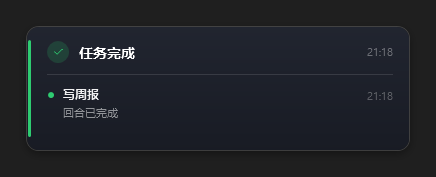
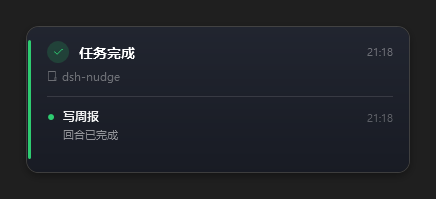
feat: 卡片显示项目与会话标题，多项目时逐条挂项目标签

diff --git a/lib/index.js b/lib/index.js
@@ -233,13 +233,20 @@ export class PopupRunner {
 		const top = ordered[0].kind;
 		const limit = Math.max(1, Math.round(this.config.maxItems));
 		const overflow = Math.max(0, ordered.length - limit);
+		// 卡片要能直接看出是哪个项目/哪次会话：只有一个项目时放在抬头下面一行，
+		// 出现多个项目时逐条挂在各自标题前面。
+		const projects = [
+			...new Set(ordered.map((item) => item.project).filter((value) => typeof value === 'string' && value !== ''))
+		];
+		const multiProject = projects.length > 1;
 		const payload = {
 			kind: top,
 			label: KIND_META[top].label,
 			accent: KIND_META[top].accent,
 			glyph: KIND_META[top].glyph,
 			count: ordered.reduce((acc, item) => acc + Math.max(1, item.count), 0),
-			items: ordered.slice(0, limit),
+			items: ordered.slice(0, limit).map((item) => ({ ...item, rowProject: multiProject ? item.project ?? '' : '' })),
+			context: projects.length === 1 ? projects[0] : '',
 			overflow,
 			// 卡片上的说明文字由这里给出：popup.ps1 保持纯 ASCII 脚本。
 			more: overflow > 0 ? `还有 ${overflow} 条未展开` : "",
@@ -363,7 +370,7 @@ export class AlertCenter {
 	/**
 	 * 记录一条提醒。
 	 * @param {'completed'|'needs_choice'|'failed'} kind 类型
-	 * @param {{sessionId?: string, title?: string, detail?: string}} [detail] 内容
+	 * @param {{sessionId?: string, title?: string, detail?: string, project?: string}} [detail] 内容
 	 * @returns {boolean} 是否被接受
 	 */
 	push(kind, detail = {}) {
@@ -378,11 +385,13 @@ export class AlertCenter {
 			existing.count += 1;
 			existing.at = this.time();
 			existing.detail = detail.detail ?? existing.detail;
+			existing.project = detail.project ?? existing.project;
 		} else {
 			this.pending.set(key, {
 				kind,
 				sessionId,
 				title: detail.title ?? String(sessionId).slice(0, 8),
+				project: detail.project ?? "",
 				detail: detail.detail ?? "",
 				at: this.time(),
 				count: 1
@@ -458,7 +467,20 @@ export function createPlugin(ctx, rawConfig, deps = {}) {
 	 * @param {string} [sessionId] 会话 id
 	 * @returns {string} 标题
 	 */
-	const titleOf = (session, sessionId) => {
+	/**
+ * 项目名：取会话工作目录的最后一段。卡片只需要一个能认出来的短名字，
+ * 不把完整路径带进弹窗。
+ * @param {any} session 会话对象
+ * @returns {string} 项目名
+ */
+const projectOf = (session) => {
+	const cwd = session?.header?.cwd;
+	if (typeof cwd !== 'string' || cwd === '') return '';
+	const parts = cwd.split(/[\\/]+/).filter((part) => part !== '');
+	return parts.length > 0 ? parts[parts.length - 1] : '';
+};
+
+const titleOf = (session, sessionId) => {
 		const id = sessionId ?? session?.header?.id ?? session?.id ?? "unknown";
 		const cached = titles.get(id);
 		if (cached !== undefined && cached !== "") return cached;
@@ -486,6 +508,7 @@ export function createPlugin(ctx, rawConfig, deps = {}) {
 				center.push("failed", {
 					sessionId,
 					title: titleOf(session, sessionId),
+				project: projectOf(session),
 					detail: `工具调用失败：${String(error.message ?? error.code ?? data?.name ?? "unknown")}`
 				});
 			}
@@ -499,6 +522,7 @@ export function createPlugin(ctx, rawConfig, deps = {}) {
 			center.push("failed", {
 				sessionId,
 				title: titleOf(session, sessionId),
+				project: projectOf(session),
 				detail: String(error.message ?? error.code ?? "回合异常结束")
 			});
 			return;
@@ -507,7 +531,12 @@ export function createPlugin(ctx, rawConfig, deps = {}) {
 		let detail = "回合已完成";
 		if (reason.kind === "max-tokens") detail = "输出被长度上限截断";
 		else if (reason.kind === "blocked") detail = "回合被策略拦截";
-		center.push("completed", { sessionId, title: titleOf(session, sessionId), detail });
+		center.push("completed", {
+			sessionId,
+			title: titleOf(session, sessionId),
+			project: projectOf(session),
+			detail
+		});
 	});
 
 	if (ctx.get("approval") !== undefined) {
@@ -516,6 +545,7 @@ export function createPlugin(ctx, rawConfig, deps = {}) {
 				center.push("needs_choice", {
 					sessionId: request?.agent?.id ?? "unknown",
 					title: titleOf(request?.agent?.session, request?.agent?.id),
+				project: projectOf(request?.agent?.session),
 					detail: String(request?.command ?? request?.title ?? request?.description ?? "等待你批准一个操作")
 				});
 			} catch {}
@@ -532,6 +562,7 @@ export function createPlugin(ctx, rawConfig, deps = {}) {
 				center.push("needs_choice", {
 					sessionId: request?.agent?.id ?? "unknown",
 					title: titleOf(request?.agent?.session, request?.agent?.id),
+				project: projectOf(request?.agent?.session),
 					detail: String(first?.header ?? first?.question ?? first?.title ?? "等待你回答问题")
 				});
 			} catch {}

diff --git a/VERIFY.md b/VERIFY.md
@@ -41,7 +41,7 @@ ALL PASS (23 checks)
 & $node .\scripts\selftest.mjs   # 已经包含这一步，产物在 screenshots\*.png
 ```
 
-期望：`completed.png` 436×177、`needs_choice.png` 436×237、`failed.png` 436×177（412 = 卡片 384 宽 + 两侧 14px 阴影留白，再各加 12px 底色留白），均 >4KB。
+期望：`completed.png` 436×199、`needs_choice.png` 436×237、`failed.png` 436×199（412 = 卡片 384 宽 + 两侧 14px 阴影留白，再各加 12px 底色留白），均 >4KB。
 
 ## 3. 卡片图内容自证（纯像素，不需要屏幕）
 
@@ -69,9 +69,9 @@ foreach ($f in 'completed','needs_choice','failed') {
 期望（实测）：
 
 ```
-completed:    436x177 distinct=145 dark=19044 accent=104 text=109
-needs_choice: 436x237 distinct=202 dark=25231 accent=183 text=188
-failed:       436x177 distinct=147 dark=19028 accent=136 text=125
+completed:    436x199 distinct=157 dark=21378 accent=126 text=109
+needs_choice: 436x237 distinct=229 dark=25107 accent=183 text=248
+failed:       436x199 distinct=159 dark=21362 accent=158 text=125
 ```
 
 判定标准：
